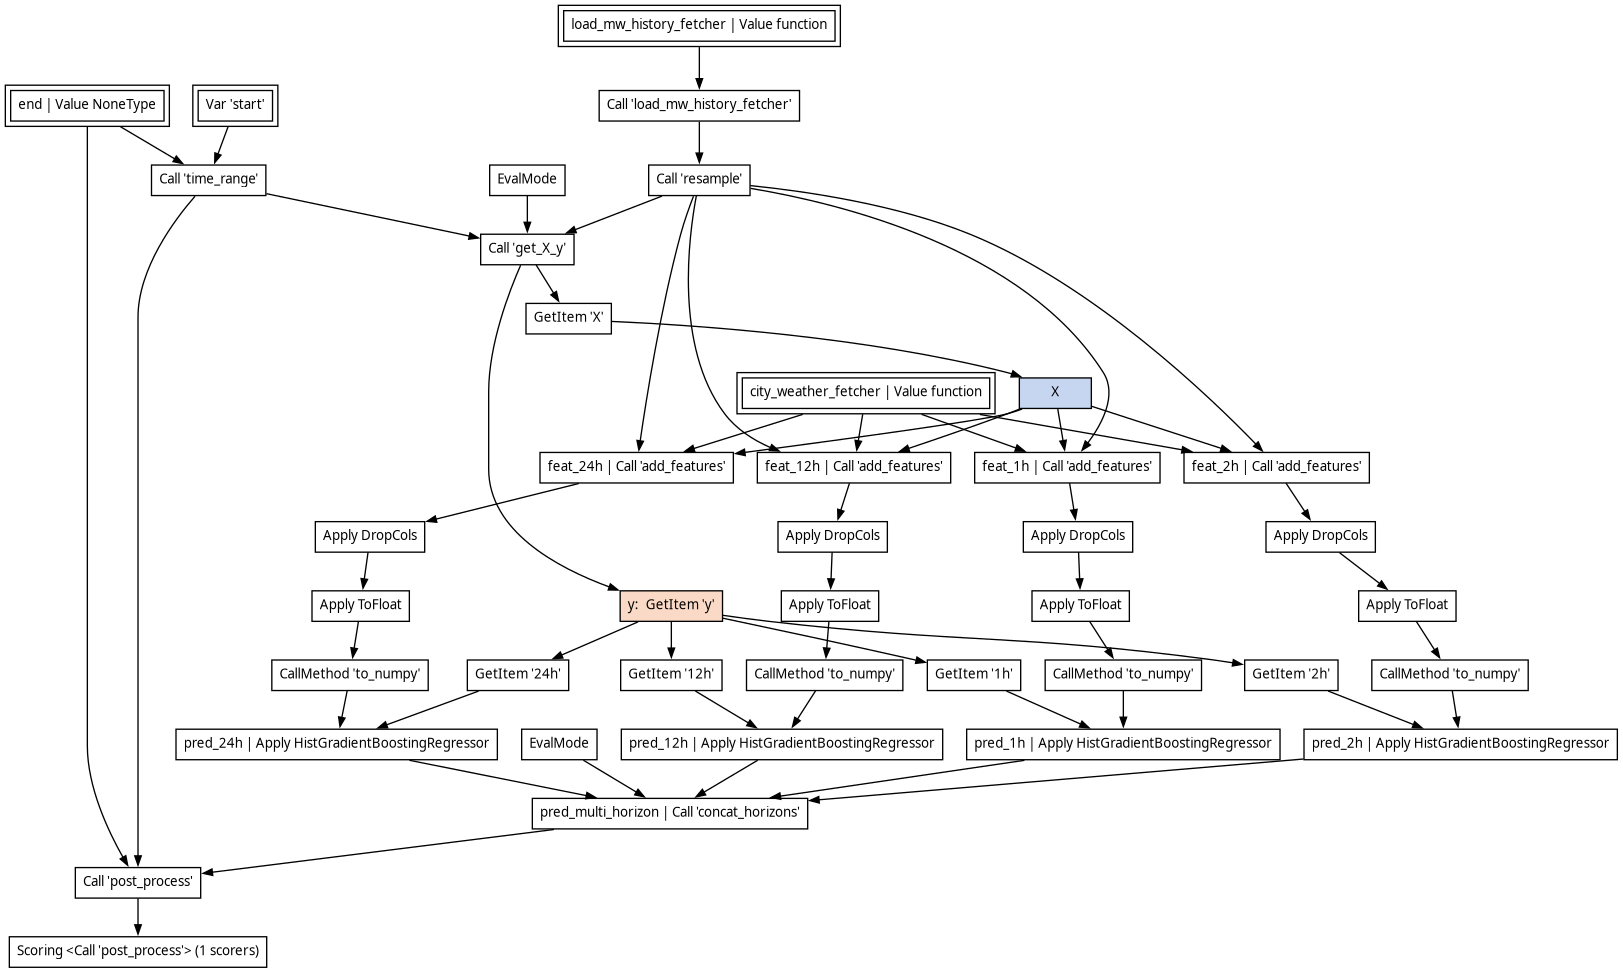
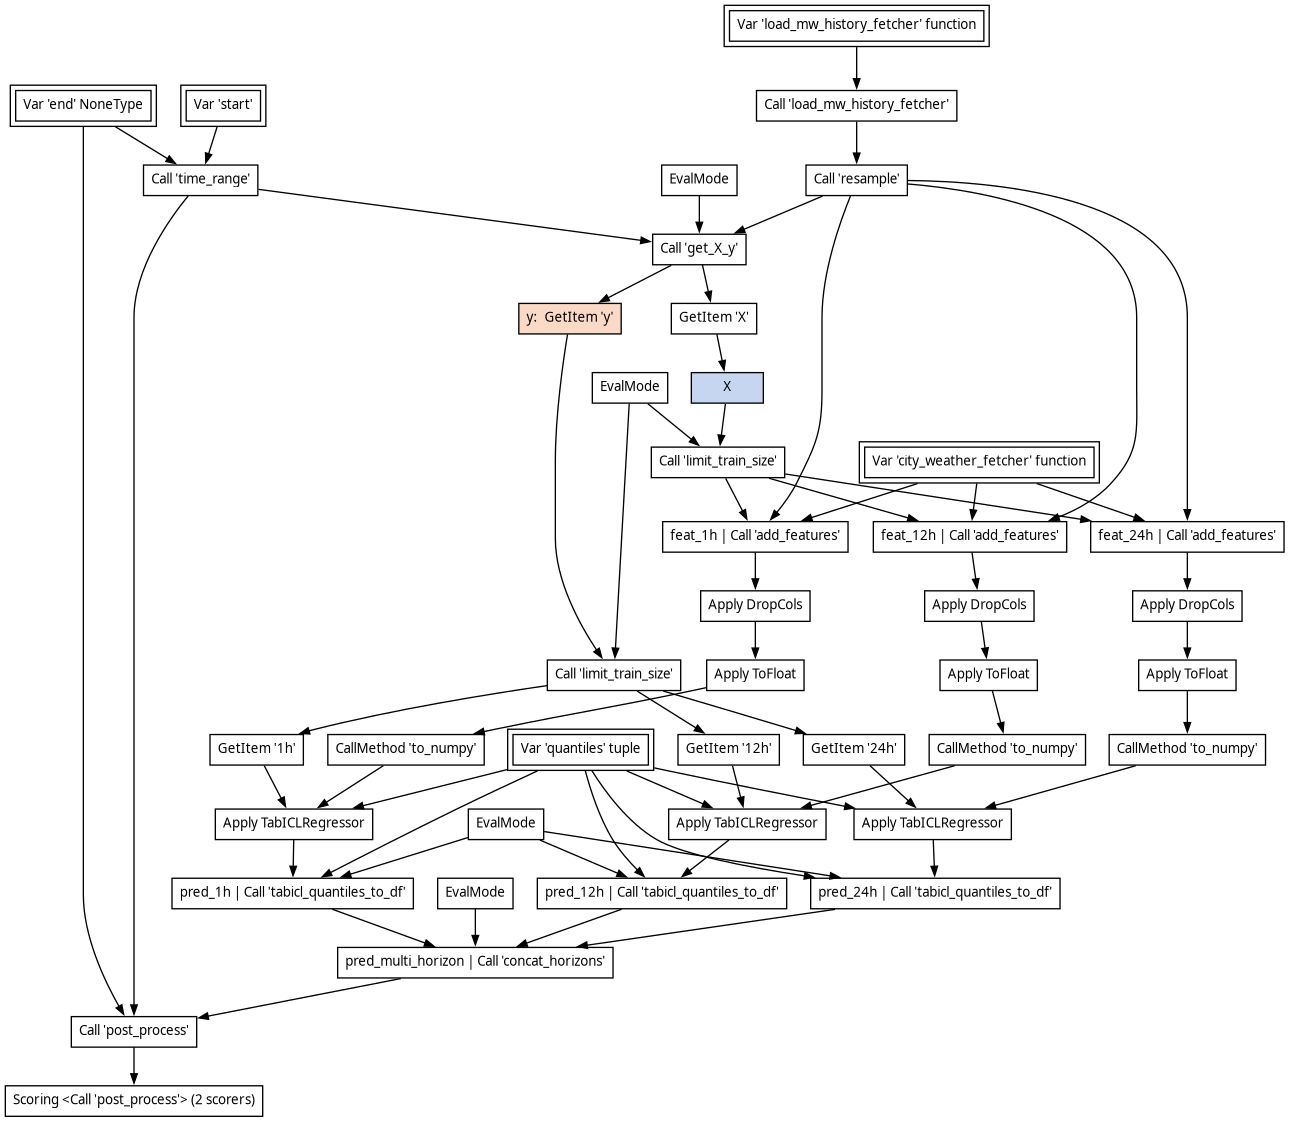
temp lags

diff --git a/electricity_load_forecasting.py b/electricity_load_forecasting.py
@@ -237,6 +237,17 @@ def add_weather(
         assert city_names == "all"
         city_names = _ALL_CITIES
     with_weather = target_time.lazy()
+
+    rolls = [(lag * 3, 3) for lag in range(8)]
+    rolling_means = [
+        cs.matches(".*temperature.*")
+        .as_expr()
+        .mean()
+        .rolling(index_column="time", period=f"{width}h", offset=f"{-width -lag}h")
+        .name.map(f"{{}}_lag_{lag}_width_{width}".format)
+        for lag, width in rolls
+    ]
+
     for city in city_names:
         with_weather = with_weather.join(
             city_weather_fetcher(city)
@@ -246,6 +257,7 @@ def add_weather(
                 if temperature_only
                 else pl.all()
             )
+            .with_columns(*rolling_means)
             .select(
                 pl.col("time"),
                 (~cs.by_name("time")).as_expr().name.map(f"weather_{{}}_{city}".format),
@@ -458,7 +470,7 @@ def limit_train_size(df, size=9000, mode=skrub.eval_mode()):
 
 
 def make_data_op(
-    horizons=(1, 2, 12, 24), quantile_strategy=None, quantiles=(0.05, 0.5, 0.95)
+    horizons=(1, 12, 24), quantile_strategy=None, quantiles=(0.05, 0.5, 0.95)
 ):
     """
     Prepare a skrub dataop for multiple horizon prediction.
@@ -488,26 +500,20 @@ def make_data_op(
     range_start = skrub.var("start").skb.set_description(
         "The first time at which a prediction is made."
     )
-    range_end = (
-        skrub.as_data_op(None)
-        .skb.set_name("end")
-        .skb.set_description("The last time at which a prediction is made.")
+    range_end = skrub.var("end", None, becomes_default=True).skb.set_description(
+        "The last time at which a prediction is made."
     )
-    load_mw_history_fetcher = (
-        skrub.as_data_op(fetch_load_mw_history)
-        .skb.set_name("load_mw_history_fetcher")
-        .skb.set_description(
-            "Function that loads the historical load data. "
-            "See signature of electricity_load_forecasting.fetch_load_mw_history."
-        )
+    load_mw_history_fetcher = skrub.var(
+        "load_mw_history_fetcher", fetch_load_mw_history, becomes_default=True
+    ).skb.set_description(
+        "Function that loads the historical load data. "
+        "See signature of electricity_load_forecasting.fetch_load_mw_history."
     )
-    city_weather_fetcher = (
-        skrub.as_data_op(fetch_city_weather)
-        .skb.set_name("city_weather_fetcher")
-        .skb.set_description(
-            "Function that loads the weather forecast for a city. "
-            "See signature of electricity_load_forecasting.fetch_city_weather."
-        )
+    city_weather_fetcher = skrub.var(
+        "city_weather_fetcher", fetch_city_weather, becomes_default=True
+    ).skb.set_description(
+        "Function that loads the weather forecast for a city. "
+        "See signature of electricity_load_forecasting.fetch_city_weather."
     )
     prediction_time = skrub.deferred(time_range)(range_start, range_end)
     load_mw_history = (
@@ -533,7 +539,7 @@ def make_data_op(
     temperature_only = skrub.choose_bool(name="temperature_only", default=True)
     cities = skrub.choose_from(["all", ["paris", "lyon", "marseille"]], name="cities")
 
-    quantiles_to_predict = skrub.as_data_op(quantiles).skb.set_name("quantiles")
+    quantiles_to_predict = skrub.var("quantiles", quantiles, becomes_default=True)
     quantile_regression = quantile_strategy is not None
     learning_rate = skrub.choose_float(
         0.01, 0.7, default=0.1, log=True, name="learning_rate"

diff --git a/compare.py b/compare.py
@@ -1,6 +1,11 @@
-import pandas as pd
+import argparse
+
 import skrub
 import skore
+
+parser = argparse.ArgumentParser()
+parser.add_argument("-m", default=None)
+args = parser.parse_args()
 
 project = skore.Project("electricity_forecasting", mode="local")
 summary = project.summarize().frame()
@@ -10,8 +15,11 @@ r = skrub.TableReport(
 ).open()
 ids = summary.index.get_level_values(1).tolist()
 keys = summary["key"].tolist()
+key_to_id = dict(zip(keys, ids))
+if args.m is not None:
+    key_to_id = {k: v for k, v in key_to_id.items() if k in args.m.split()}
 comparison = skore.compare(
-    {key: project.get(i) for key, i in dict(zip(keys, ids)).items()}
+    {key: project.get(i) for key, i in key_to_id.items()}
 )
 metric_summary = comparison.metrics.summarize().frame()
 print(metric_summary)

diff --git a/cross_validate_skore.py b/cross_validate_skore.py
@@ -15,6 +15,7 @@ parser.add_argument(
     default=None,
     choices=["multiple_regressors", "tabicl", "binning"],
 )
+parser.add_argument("--hub", action="store_true")
 args = parser.parse_args()
 quantile_strategy = args.quantile_strategy
 n_trials = args.n_trials
@@ -62,9 +63,11 @@ report_name = "__".join(
     [
         "hgb_mean" if quantile_strategy is None else quantile_strategy,
         f"search_{n_trials}" if do_search else "default",
+        "with_temperature_lags"
     ]
 )
 report_path = project.put(report_name, report)
+print(report_path)
 
 # %%
 if do_search:
@@ -88,7 +91,7 @@ fig.write_html(report_path / "user" / "24h.html")
 
 # %%
 # store in hub
-if quantile_strategy is None:
+if args.hub and quantile_strategy is None:
     import dotenv
     import os
 

diff --git a/draw_graph.py b/draw_graph.py
@@ -1,6 +1,6 @@
 import electricity_load_forecasting as elf
 
-pred = elf.make_data_op()
+pred = elf.make_data_op(quantile_strategy="tabicl")
 g = pred.skb.draw_graph()
 with open("graph.svg", "wb") as f:
     f.write(g.svg)
